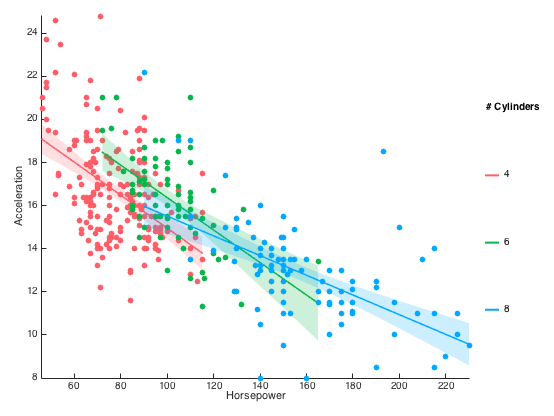
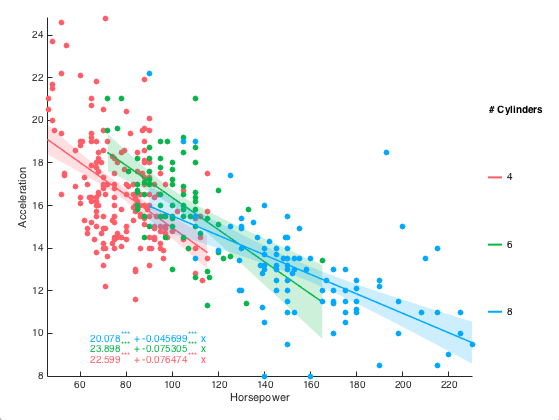
Added ability to return results from internal computations
Results from stat_ plots are returned in the results member structure.
Corrected bugs with pre 2014b versions

diff --git a/gramm.m b/gramm.m
@@ -4,6 +4,7 @@ classdef gramm < handle
     
     properties (Access=public)
         facet_axes_handles %Store the handles of the facet axes
+        results
     end
         
     properties (Access=protected)
@@ -42,6 +43,7 @@ classdef gramm < handle
               % active: true or false
         
         firstrun %Is it the first time the plotting function is run
+        r_ind %current index in the draw loops
         
         wrap_ncols %After how many columns do we wrap around subplots
         facet_scale %Do we have independent scales between facets ?
@@ -115,6 +117,7 @@ classdef gramm < handle
             obj.aes_names.row='Row';
             obj.aes_names.column='Column';
             obj.aes_names.lightness='Lightness';
+            obj.aes_names.group='Group';
             
             %Initialize geoms
             obj.geom={};
@@ -817,6 +820,16 @@ end
             %cmap=colormap('lines');
             %cmap=cmap(1:length(uni_color)+1,:);
             
+            %Initialize results structure (n_groups is an overestimate if
+            %there are redundant groups
+            n_groups=length(uni_row)*length(uni_column)*length(uni_marker)...
+                *length(uni_size)*length(uni_linestyle)*length(uni_color)*length(unique(temp_aes.group));
+            aes_names_fieldnames=fieldnames(obj.aes_names);
+            for fn=3:length(aes_names_fieldnames)
+                obj.results.(aes_names_fieldnames{fn})=cell(n_groups,1);
+                obj.results.(['ind_' aes_names_fieldnames{fn}])=cell(n_groups,1);
+            end
+            obj.results.draw_data=cell(n_groups,1);
 
             %Store different line styles
             line_styles={'-' '--' ':' '-.'};
@@ -833,6 +846,8 @@ end
             end
             
             obj.firstrun=ones(n_rows,n_columns);
+            %Index in the loops
+            obj.r_ind=1;
             
             %Loop over rows
             for ind_row=1:length(uni_row)
@@ -919,6 +934,27 @@ end
                                             
                                             sel=sel_lightness & multi_sel(temp_aes.group,uni_group{ind_group});
                                             
+                                            %Fill out results struct
+                                            obj.results.row{obj.r_ind}=uni_row{ind_row};
+                                            obj.results.column{obj.r_ind}=uni_column{ind_column};
+                                            obj.results.marker{obj.r_ind}=uni_marker{ind_marker};
+                                            obj.results.linestyle{obj.r_ind}=uni_linestyle{ind_linestyle};
+                                            obj.results.size{obj.r_ind}=uni_size{ind_size};
+                                            obj.results.color{obj.r_ind}=uni_color{ind_color};
+                                            obj.results.lightness{obj.r_ind}=uni_lightness{ind_lightness};
+                                            obj.results.group{obj.r_ind}=uni_group{ind_group};
+                                            
+                                            obj.results.ind_row{obj.r_ind}=ind_row;
+                                            obj.results.ind_column{obj.r_ind}=ind_column;
+                                            obj.results.ind_marker{obj.r_ind}=ind_marker;
+                                            obj.results.ind_linestyle{obj.r_ind}=ind_linestyle;
+                                            obj.results.ind_size{obj.r_ind}=ind_size;
+                                            obj.results.ind_color{obj.r_ind}=ind_color;
+                                            obj.results.ind_lightness{obj.r_ind}=ind_lightness;
+                                            obj.results.ind_group{obj.r_ind}=ind_group;
+                                            
+                                            
+                                            
                                             if ~isempty(sel)
                                                 
                                                 %Fill up the draw_data
@@ -933,6 +969,7 @@ end
                                                 draw_data.size=sizes(ind_size);
                                                 draw_data.color_index=(ind_color-1)*length(uni_lightness)+ind_lightness;
                                                 draw_data.n_colors=length(uni_color)*length(uni_lightness);
+                                               
                                                 
                                                 %Loop over geoms
                                                 for geom_ind=1:length(obj.geom)
@@ -941,10 +978,16 @@ end
                                                     obj.geom{geom_ind}(draw_data);
                                                     
                                                 end
-                                                
                                                 obj.firstrun(obj.current_row,obj.current_column)=0;
+                                                
+                                                draw_data=rmfield(draw_data,{'x','y','continuous_color','color_index','n_colors'});
+                                                obj.results.draw_data{obj.r_ind}=draw_data;
+                                                
+                                                %Iterate loop counter
+                                                obj.r_ind=obj.r_ind+1;
                                             end
                                             
+
                                         end
                                     end
                                 end
@@ -1276,7 +1319,10 @@ end
                             xlim([temp_xlim(1)-1 temp_xlim(2)+1])
                             set(gca,'XTick',1:length(obj.x_ticks))
                             if has_xtick
-                                set(gca,'XTickLabel',obj.x_ticks,'TickLabelInterpreter','none')
+                                set(gca,'XTickLabel',obj.x_ticks)
+                                try
+                                    set(gca,'TickLabelInterpreter','none')%Just try it (doesn't exist in pre-2014b)
+                                end
                                 %set(gca,'XTickLabelRotation',30)
                             end
                         end
@@ -1349,7 +1395,30 @@ end
                     set(gcf,'SizeChangedFcn',@(a,b)redraw(obj,0.04));
                 end
             end
-
+            
+            
+            %Clean up results
+            result_fields=fieldnames(obj.results);
+            if obj.r_ind>1
+                for rf=1:length(result_fields)
+                    %Resize
+                    obj.results.(result_fields{rf})=obj.results.(result_fields{rf})(1:obj.r_ind-1);
+                    %Transform non cell strings in arrays
+                    if ~iscellstr(obj.results.(result_fields{rf}))
+                        obj.results.(result_fields{rf})=[obj.results.(result_fields{rf}){:}]';
+                    end
+                end
+            else
+                obj.results=[];
+            end
+            
+            %There are bugs with the openGL renderer in pre 2014b version,
+            %on Mac OS and Win the x and y axes become invisible and on
+            %Windows the patch objects behave strangely. So we switch to
+            %painters renderer
+            if verLessThan('matlab','8.4')
+                set(gcf,'Renderer','Painters')
+            end
         end
         
         function obj=geom_line(obj)
@@ -1771,6 +1840,7 @@ end
             my_addParameter(p,'row','Row');
             my_addParameter(p,'column','Column');
             my_addParameter(p,'lightness','Lightness');
+            my_addParameter(p,'group','Group');
             
             parse(p,varargin{:});
             
@@ -2014,6 +2084,11 @@ end
                 yci=nan(2,length(newx));
             end
             
+            
+            obj.results.smooth{obj.r_ind,1}.x=newx;
+            obj.results.smooth{obj.r_ind,1}.y=newy;
+            obj.results.smooth{obj.r_ind,1}.yci=yci;
+            
             %For some reason bootci is super slow there ! %zci=bootci(50,@(ax,ay)turbotrend(ax,ay,10,100),combx,comby);
             
             %Spline smoothing
@@ -2200,6 +2275,10 @@ end
                 end
             end
             
+            obj.results.summary{obj.r_ind,1}.x=uni_x;
+            obj.results.summary{obj.r_ind,1}.y=ymean;
+            obj.results.summary{obj.r_ind,1}.yci=yci;
+            
             hndl=obj.plotci(uni_x,ymean,yci,draw_data.color,draw_data.line_style,draw_data.size,params.geom);
             
         end
@@ -2239,7 +2318,25 @@ end
                 %points)
                 k=@(alpha) sqrt(chi2inv(1-alpha,2));
                 
+                %Compute ellipse points
                 conf_elpoints=sqrtm(cv)*elpoints*k(0.05);
+                
+                %Compute ellipse axes
+                [evec,eval]=eig(cv);
+                if eval(2,2)>eval(1,1) %Reorder
+                    evec=fliplr(evec);
+                    eval=fliplr(flipud(eval));
+                end
+                elaxes=sqrtm(cv)*evec*k(0.05);
+                
+                
+                obj.results.ellipse{obj.r_ind,1}.mean=m;
+                obj.results.ellipse{obj.r_ind,1}.cv=cv;
+                obj.results.ellipse{obj.r_ind,1}.major_axis=elaxes(:,1)';
+                obj.results.ellipse{obj.r_ind,1}.minor_axis=elaxes(:,2)';
+                
+                %plot([0 elaxes(1,1)]+m(1),[0 elaxes(2,1)]+m(2),'k')
+                %plot([0 elaxes(1,2)]+m(1),[0 elaxes(2,2)]+m(2),'k')
                 
                 switch params.geom
                     case 'area'
@@ -2272,6 +2369,11 @@ end
                     newx=linspace(min(combx),max(combx),50)';
                 end
                 [newy,yci]=predict(mdl,newx);
+                
+                obj.results.glm{obj.r_ind,1}.x=newx;
+                obj.results.glm{obj.r_ind,1}.y=newy;
+                obj.results.glm{obj.r_ind,1}.yci=yci;
+                obj.results.glm{obj.r_ind,1}.model=mdl;
                 
                 hndl=obj.plotci(newx,newy,yci,draw_data.color,draw_data.line_style,draw_data.size,params.geom);
 
@@ -2315,6 +2417,12 @@ end
             %Get fit value and CI
             newy=feval(mdl,newx);
             yci=predint(mdl,newx,0.95,params.intopt);
+            
+            
+            obj.results.fit{obj.r_ind,1}.x=newx;
+            obj.results.fit{obj.r_ind,1}.y=newy;
+            obj.results.fit{obj.r_ind,1}.yci=yci;
+            obj.results.fit{obj.r_ind,1}.model=mdl;
             
             %Plot fit
             hndl=obj.plotci(newx,newy,yci,draw_data.color,draw_data.line_style,draw_data.size,params.geom);
@@ -2417,6 +2525,9 @@ end
             
             bincounts=shiftdim(bincounts);
             
+            obj.results.bin{obj.r_ind,1}.edges=bincenters;
+            obj.results.bin{obj.r_ind,1}.counts=bincounts;
+            
             obj.plot_lim.miny(obj.current_row,obj.current_column)=0;
             if obj.firstrun(obj.current_row,obj.current_column)
                 obj.plot_lim.maxy(obj.current_row,obj.current_column)=max(bincounts);
@@ -2448,6 +2559,7 @@ end
                 end
                     
             end
+            
             
             
             
@@ -2581,6 +2693,10 @@ end
                     obj.plot_lim.maxy(obj.current_row,obj.current_column)=max(f);
                 end
             end
+            
+            obj.results.density{obj.r_ind,1}.x=xi;
+            obj.results.density{obj.r_ind,1}.y=f;
+            
             [xi,f]=to_polar(obj,xi,f);
             hndl=plot(xi,f,'LineStyle',draw_data.line_style,'Color',draw_data.color,'lineWidth',draw_data.size/4);
         end
@@ -2610,6 +2726,9 @@ end
                 N(end,:)=[];
                 
             end
+            
+            obj.results.bin2d{obj.r_ind,1}.edges=C;
+            obj.results.bin2d{obj.r_ind,1}.counts=N;
             
             switch params.geom
                 case 'contour'

diff --git a/examples.m b/examples.m
@@ -253,7 +253,7 @@ load carbig.mat %Load example dataset about cars
 
 g=gramm('x',Horsepower,'y',Acceleration,'color',Cylinders,'subset',Cylinders~=3 & Cylinders~=5)
 g.set_names('color','# Cylinders','x','Horsepower','y','Acceleration')
-g.stat_glm('geom','area') %Linear fit (default for stat_glm
+g.stat_glm('geom','area','disp_fit',true) %Linear fit (default for stat_glm
 g.geom_point()
 g.draw()
 

diff --git a/README.md b/README.md
@@ -25,9 +25,9 @@ g.draw() %Draw method
 ### Installation
 Add the folder containing gramm.m to your path
 ### Compatibility
-Tested under Matlab 2015 versions. The statistics toolbox is required for some methods: <code>stat_glm()</code>, some <code>stat_summary()</code> methods, <code>stat_density()</code>. The curve fitting toolbox is required for <code>stat_fit()</code/>.
+Tested under Matlab 2014b+ versions. With pre-2014b versions, gramm forces <code>'painters'</code>, renderer to avoid some graphic bugs, which deactivates transparencies (use non-transparent geoms, for example <code>stat_summary('geom','lines')</code>). The statistics toolbox is required for some methods: <code>stat_glm()</code>, some <code>stat_summary()</code> methods, <code>stat_density()</code>. The curve fitting toolbox is required for <code>stat_fit()</code/>.
 #### Documentation
-Type <code>doc gramm</code> find links to the documentation of each method.
+Type <code>doc gramm</code> to find links to the documentation of each method.
 
 
 ## Features
@@ -51,10 +51,11 @@ Type <code>doc gramm</code> find links to the documentation of each method.
   - Custom fits with user-provided anonymous function (<code>stat_fit()</code>)
   - Ellipses of confidence (<code>stat_ellipse()</code>)
 - Subplots are created without too much empty space in between (and resize properly !)
-- Polar plots (<code>set_polar()</code>)
+- Polar coordinates (<code>set_polar()</code>)
 - Color data can also be displayed as a continous variable, not as a grouping factor (<code>set_continuous_color()</code>)
 - Possibility to customize color generations in the LCH color space (<code>set_color_options()</code>)
 - Confidence intervals as shaded areas, error bars or thin lines
+- Results of computations from <code>stat_</code> plots are returned in the member structure <code>results</code>
 - Multiple gramm plots can be combined in the same figure by creatin a matrix of gramm objects and calling the <code>draw()</code> method on the whole matrix.
 - Matlabs axes properties are acessible through the method <code>axe_property()</code>
 - Custom legend labels with <code>set_names()</code>
